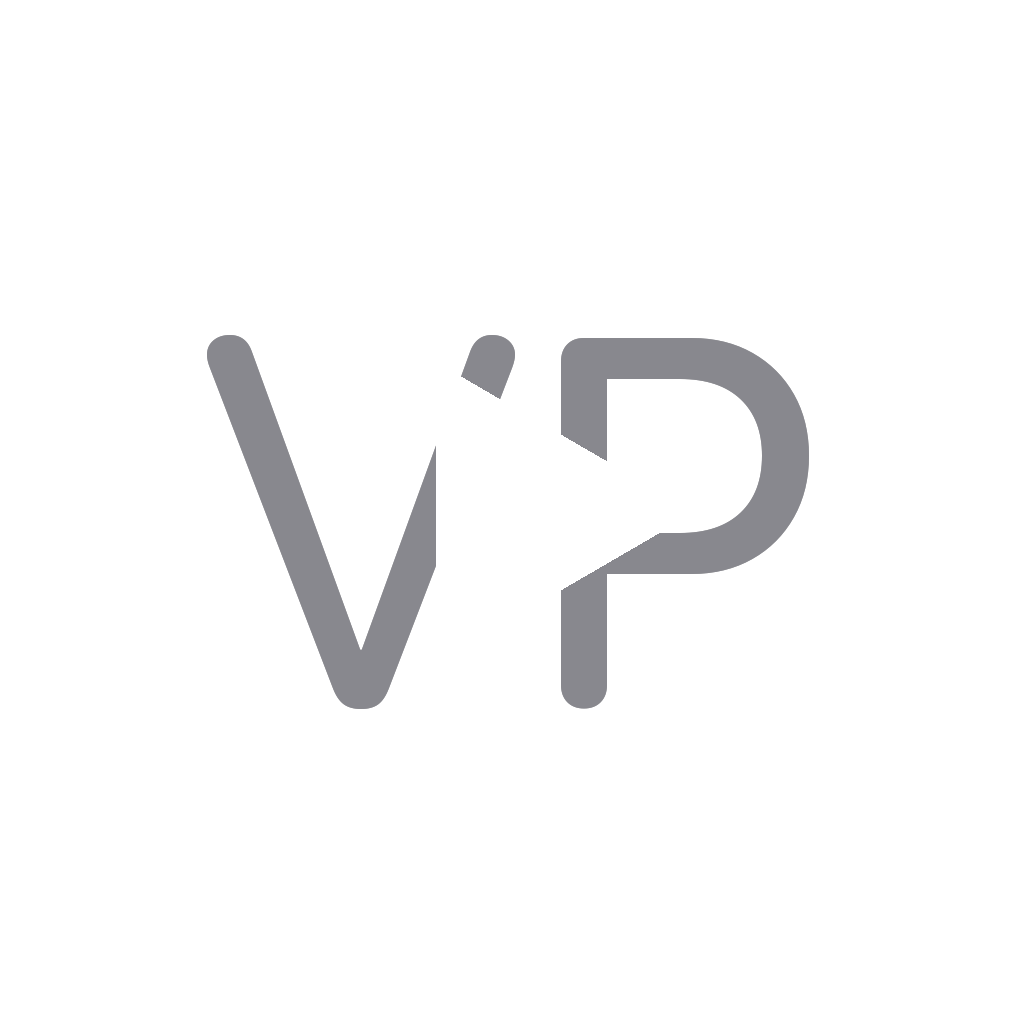
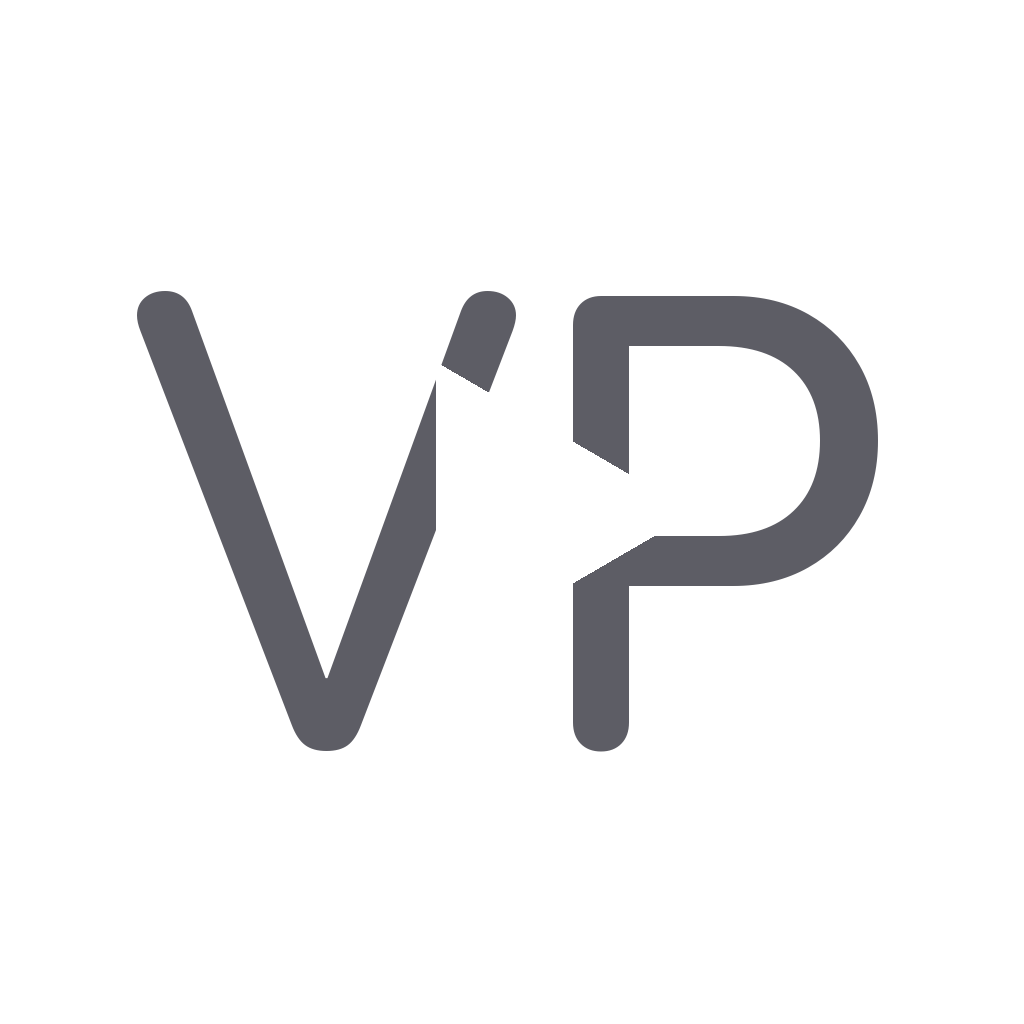
design: 图标 v4.2 — VP 放大 + 整体半透明
- VP 字号 520→640
- 整体图标 alpha × 0.75

Changed region(s): [[0.5312, 0.2812, 0.875, 0.75], [0.125, 0.2812, 0.4375, 0.75], [0.4375, 0.2812, 0.5, 0.4062]]

diff --git a/scripts/generate-icon.py b/scripts/generate-icon.py
@@ -19,10 +19,10 @@ def create():
 
     # ── VP 文字 ────────────────────────────────────
     try:
-        font = ImageFont.truetype("/System/Library/Fonts/SFNSRounded.ttf", 520)
+        font = ImageFont.truetype("/System/Library/Fonts/SFNSRounded.ttf", 640)
     except:
         try:
-            font = ImageFont.truetype("/System/Library/Fonts/Helvetica.ttc", 520)
+            font = ImageFont.truetype("/System/Library/Fonts/Helvetica.ttc", 640)
         except:
             font = ImageFont.load_default()
 
@@ -31,7 +31,7 @@ def create():
     tw, th = bbox[2] - bbox[0], bbox[3] - bbox[1]
     tx = (SIZE - tw) // 2 - bbox[0]
     ty = (SIZE - th) // 2 - bbox[1] + 10
-    draw.text((tx, ty), text, fill=(40, 40, 50, 140), font=font)
+    draw.text((tx, ty), text, fill=(40, 40, 50), font=font)
 
     # ── 半透明播放三角（覆盖在文字中间，YouTube 风格）──
     cx, cy = SIZE // 2, SIZE // 2
@@ -47,6 +47,11 @@ def create():
     ]
     # 半透明白色三角
     draw.polygon(tri_points, fill=(255, 255, 255, 140))
+
+    # 整体半透明（alpha 乘 0.75）
+    alpha = img.split()[3]
+    alpha = alpha.point(lambda x: int(x * 0.75))
+    img.putalpha(alpha)
 
     return img
 